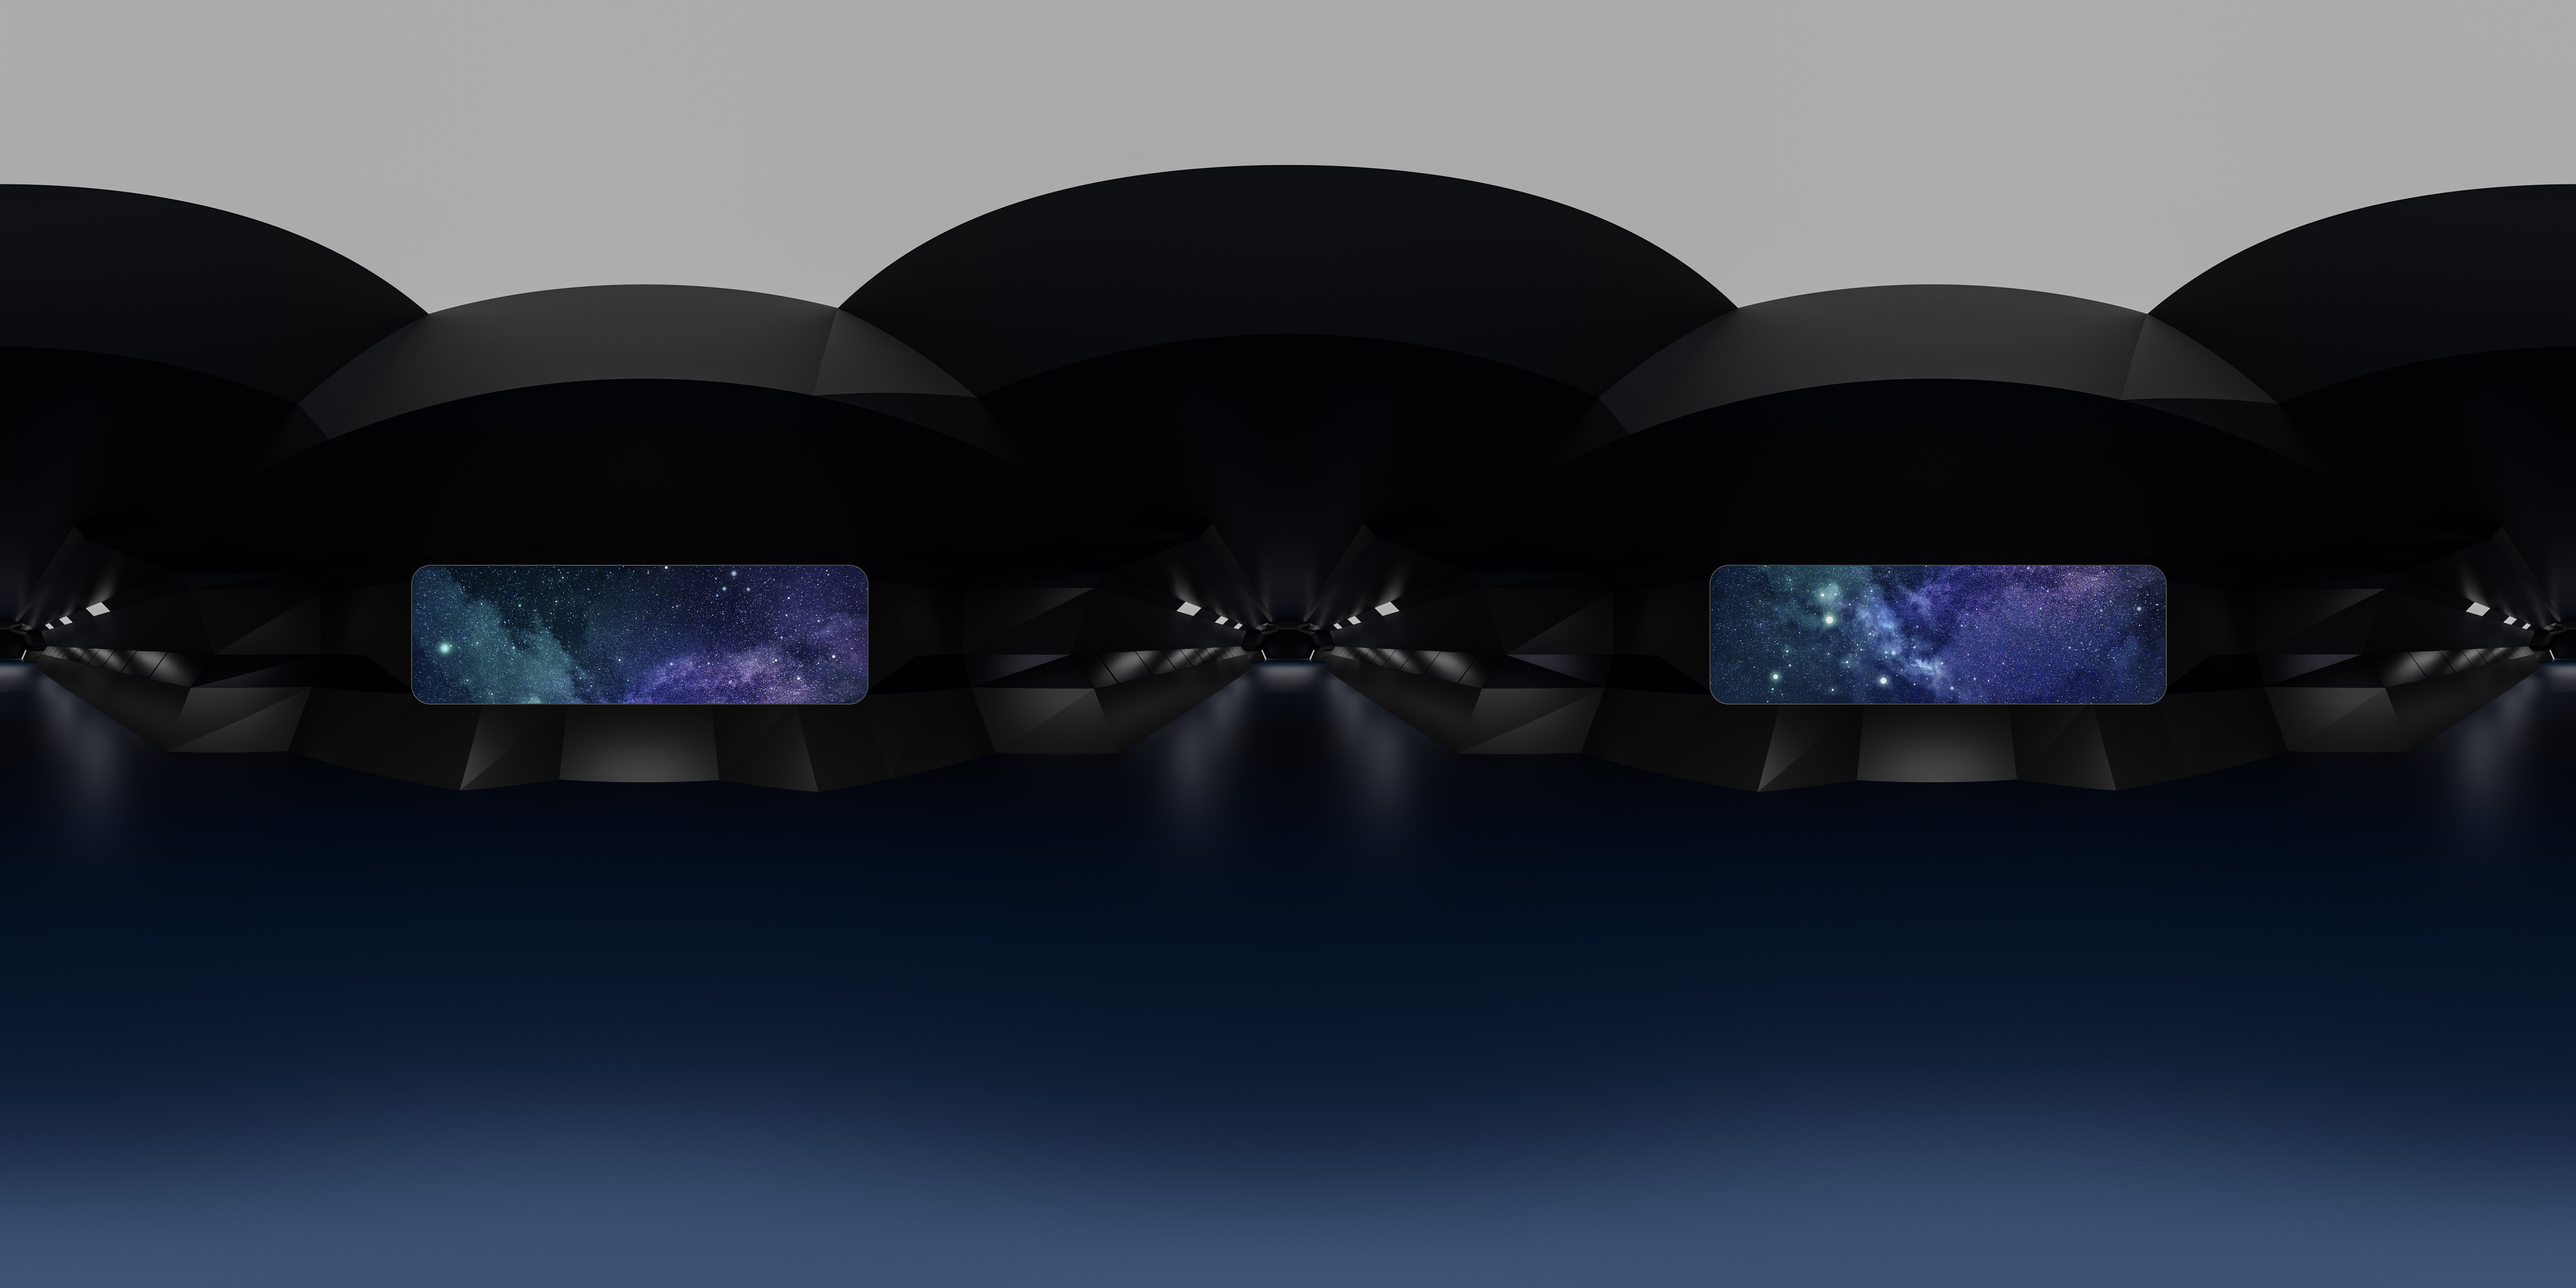
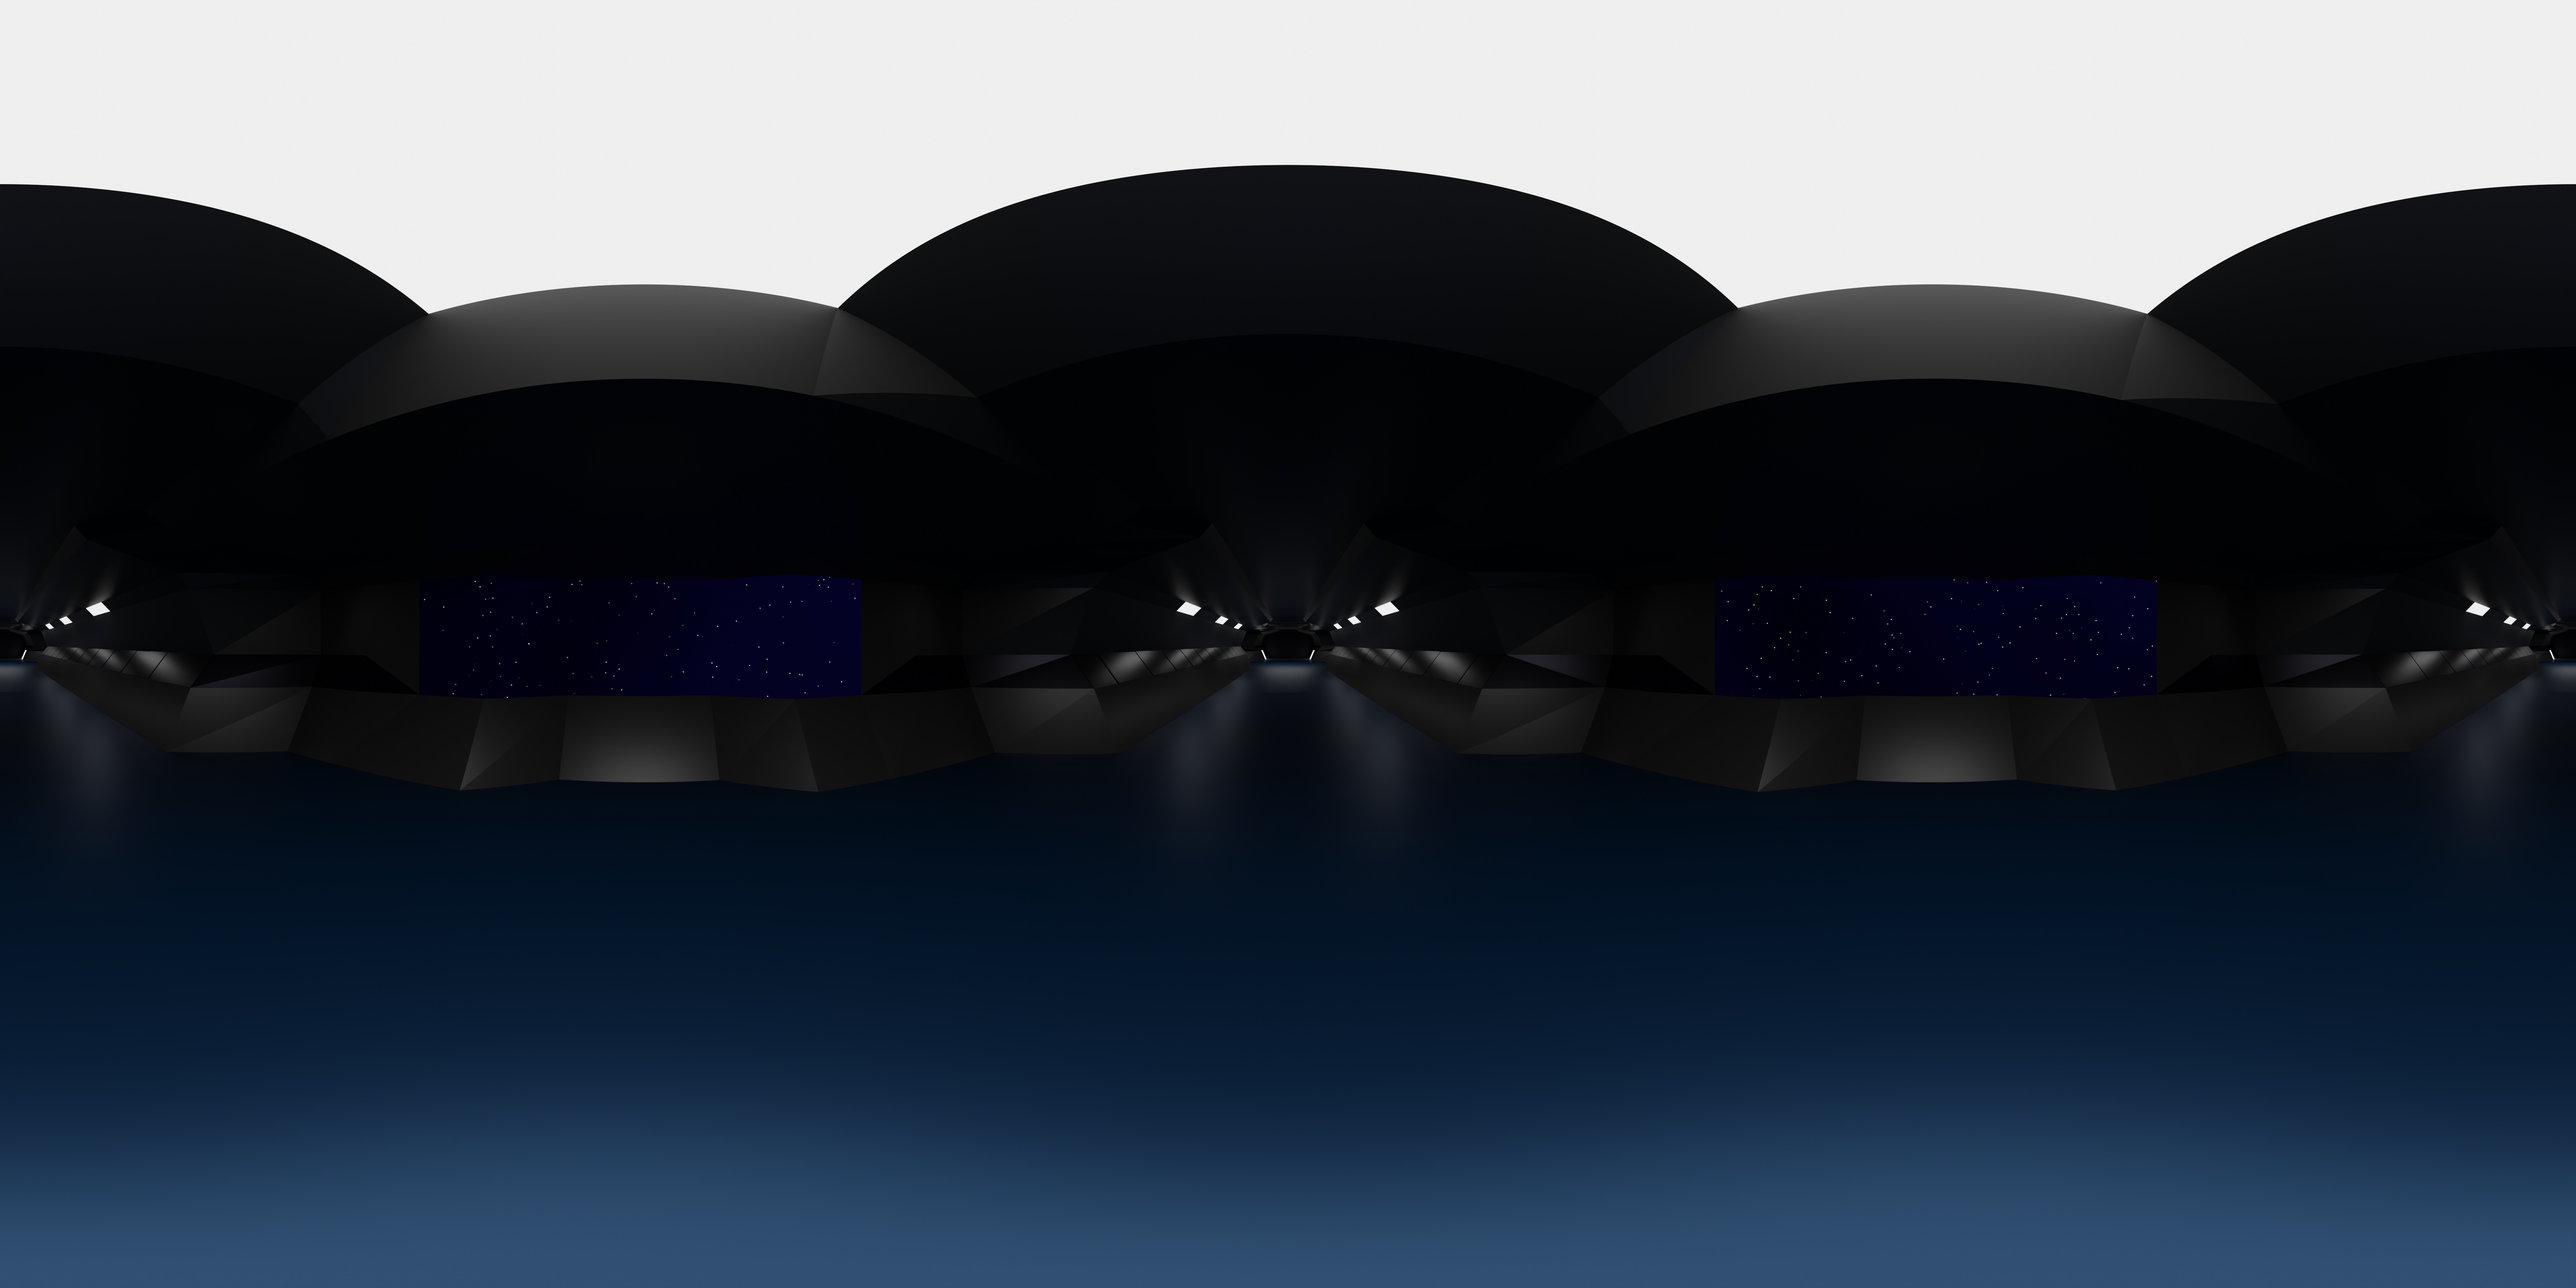
Add files via upload

Changed region(s): [[0.0, 0.0, 1.0, 0.25], [0.6562, 0.4375, 0.8438, 0.5625], [0.1562, 0.4375, 0.3438, 0.5625]]

diff --git a/index.html b/index.html
@@ -84,7 +84,7 @@
 				<h4>3D Viewer</h4>
 				<img src="earth.jpg" alt="Earth 3D" class="pop-image">
 				<a href="index_3.html" 
-               target="_self" class="pop-link">Planet Earth</a><br>
+               target="_self" class="pop-link">3D Earth</a><br>
 			   <a href="index_4.html" 
                target="_self" class="pop-link">Virtual Museum</a>
 			   </div>

diff --git a/style.css b/style.css
@@ -11,7 +11,7 @@
             align-items: center;
             font-family: "Inter", sans-serif;
             background-image: url(space.jpg);
-            background-size: cover;
+            background-size: contain;
         }
 		
 .centerback{
